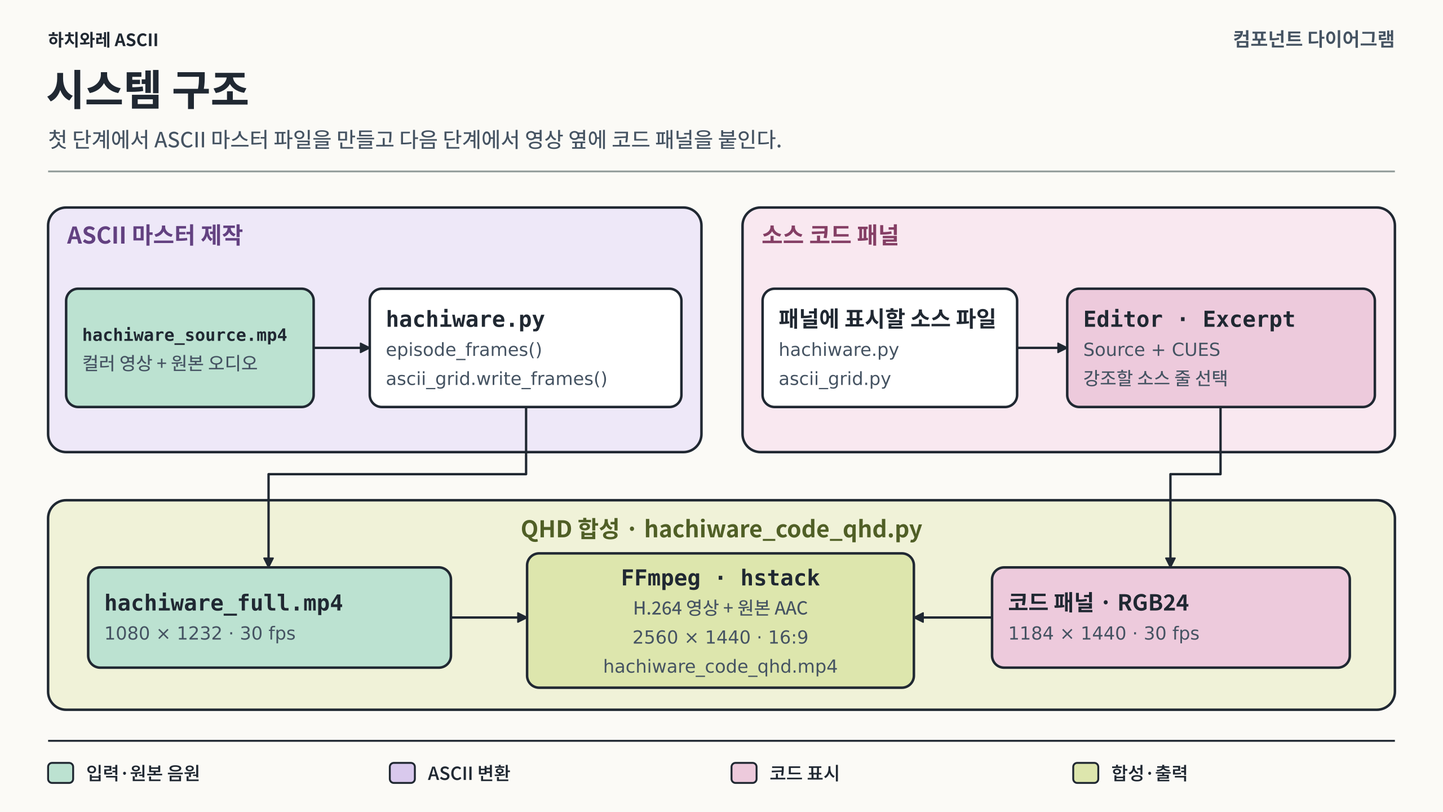
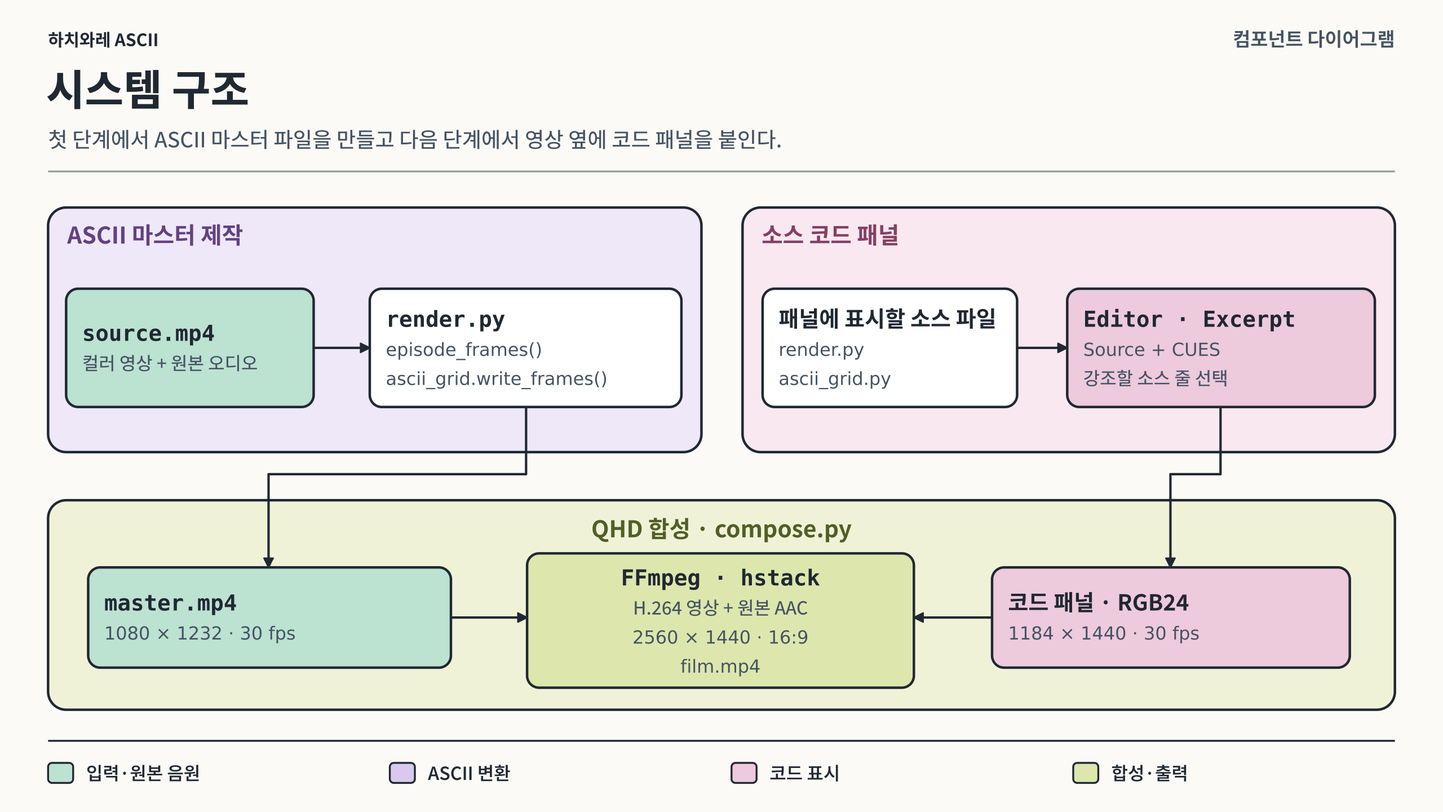
Use role-based filenames for rendering and composition

diff --git a/compose.py b/compose.py
@@ -1,9 +1,9 @@
 """하치와레 ASCII와 실제 소스를 함께 보여 주는 16:9 QHD 영상.
 
-    python hachiware_code_qhd.py
-    python hachiware_code_qhd.py hachiware_full.mp4 another_cut.mp4
+    python compose.py
+    python compose.py master.mp4 another_cut.mp4
 
-같은 폴더의 hachiware.py와 ascii_grid.py를 읽는다. NumPy, Pillow, FFmpeg가
+같은 폴더의 render.py와 ascii_grid.py를 읽는다. NumPy, Pillow, FFmpeg가
 필요하다. 기본 오디오는 입력 영상에 담긴 한국어판 노래와 대사, 효과음을 그대로 사용한다.
 별도의 녹음으로 교체하려면 --voice 녹음.wav 를 지정한다.
 """
@@ -47,7 +47,7 @@ KOREAN = ("NotoSansKR-VF.ttf", "NotoSansCJK-Regular.ttc", "malgun.ttf")
 class Cue:
     frame: int
     lines: tuple
-    file: str = "hachiware.py"
+    file: str = "render.py"
 
 
 def lines(first, last):
@@ -343,8 +343,8 @@ def render(movie, output, voice=None):
 
 if __name__ == "__main__":
     parser = argparse.ArgumentParser(description=__doc__)
-    parser.add_argument("movie", type=Path, nargs="?", default=HERE / "hachiware_full.mp4")
-    parser.add_argument("output", type=Path, nargs="?", default=HERE / "hachiware_code_qhd.mp4")
+    parser.add_argument("movie", type=Path, nargs="?", default=HERE / "master.mp4")
+    parser.add_argument("output", type=Path, nargs="?", default=HERE / "film.mp4")
     parser.add_argument("--voice", type=Path, help="직접 녹음한 해설 트랙")
     args = parser.parse_args()
     render(args.movie, args.output, args.voice)

diff --git a/render.py b/render.py
@@ -1,7 +1,7 @@
 """컬러 영상을 하치와레 스타일의 ASCII 애니메이션으로 변환한다.
 
-    python hachiware.py input.mp4 hachiware.mp4
-    python hachiware.py --episode-11 hachiware_source.mp4 hachiware_full.mp4
+    python render.py input.mp4 ascii.mp4
+    python render.py --episode-11 source.mp4 master.mp4
 """
 
 import argparse

diff --git a/docs/design.ko.md b/docs/design.ko.md
@@ -4,7 +4,7 @@
 
 ## 시스템 구조
 
-원본을 ASCII로 그리는 일과 화면에 코드를 붙이는 일은 따로 실행합니다. 두 프로그램을 잇는 파일은 `hachiware_full.mp4`입니다. 이 파일에 글자로 그린 영상과 원본 소리가 함께 들어 있어 코드 패널만 고칠 때는 QHD 합성부터 다시 실행하면 됩니다. 왼쪽 영상의 너비는 1376픽셀, 오른쪽 코드 패널은 1184픽셀입니다. [합성 코드](../hachiware_code_qhd.py#L284)
+원본을 ASCII로 그리는 일과 화면에 코드를 붙이는 일은 따로 실행합니다. 두 프로그램을 잇는 파일은 `master.mp4`입니다. 이 파일에 글자로 그린 영상과 원본 소리가 함께 들어 있어 코드 패널만 고칠 때는 QHD 합성부터 다시 실행하면 됩니다. 왼쪽 영상의 너비는 1376픽셀, 오른쪽 코드 패널은 1184픽셀입니다. [합성 코드](../compose.py#L284)
 
 [![원본과 두 소스 파일을 받아 QHD MP4를 만드는 구조](diagrams/ko/architecture.png)](diagrams/ko/architecture.png)
 
@@ -14,7 +14,7 @@
 
 ## 데이터 흐름도
 
-`letters()`는 셀마다 3 × 3개의 표본을 읽어 글자와 색을 고릅니다. 기본 격자는 135열 88행이고 글자 한 칸은 8 × 14픽셀입니다. 422번 프레임에는 두 인물이 함께 나옵니다. 이처럼 넓게 잡는 세 장면에서는 격자를 270열 176행으로 늘리고 글자 크기를 4 × 7픽셀로 줄입니다. `pixels()`는 글자 마스크에 셀 색을 곱해 RGB 프레임을 만듭니다. 소리는 이 계산을 거치지 않고 두 MP4에 차례로 복사됩니다. [글자 선택](../hachiware.py#L163) · [픽셀 합성](../ascii_grid.py#L37)
+`letters()`는 셀마다 3 × 3개의 표본을 읽어 글자와 색을 고릅니다. 기본 격자는 135열 88행이고 글자 한 칸은 8 × 14픽셀입니다. 422번 프레임에는 두 인물이 함께 나옵니다. 이처럼 넓게 잡는 세 장면에서는 격자를 270열 176행으로 늘리고 글자 크기를 4 × 7픽셀로 줄입니다. `pixels()`는 글자 마스크에 셀 색을 곱해 RGB 프레임을 만듭니다. 소리는 이 계산을 거치지 않고 두 MP4에 차례로 복사됩니다. [글자 선택](../render.py#L163) · [픽셀 합성](../ascii_grid.py#L37)
 
 [![영상과 코드, 원본 AAC가 최종 MP4에 담기는 경로](diagrams/ko/data-flow.png)](diagrams/ko/data-flow.png)
 
@@ -22,7 +22,7 @@
 
 ## 유스케이스 다이어그램
 
-제작자는 일반 영상을 무음 ASCII로 바꾸거나 `--episode-11`로 원본 소리가 담긴 11화 ASCII 영상을 만들 수 있습니다. QHD 합성은 이 11화 영상을 입력으로 받습니다. 기본 설정에서는 한국어판 노래와 대사가 그대로 나옵니다. 별도 녹음으로 바꾸려면 합성 명령에 `--voice 녹음.wav`를 붙입니다. [ASCII 변환 명령](../hachiware.py#L379) · [오디오 선택](../hachiware_code_qhd.py#L291)
+제작자는 일반 영상을 무음 ASCII로 바꾸거나 `--episode-11`로 원본 소리가 담긴 11화 ASCII 영상을 만들 수 있습니다. QHD 합성은 이 11화 영상을 입력으로 받습니다. 기본 설정에서는 한국어판 노래와 대사가 그대로 나옵니다. 별도 녹음으로 바꾸려면 합성 명령에 `--voice 녹음.wav`를 붙입니다. [ASCII 변환 명령](../render.py#L379) · [오디오 선택](../compose.py#L291)
 
 [![제작자와 FFmpeg가 참여하는 세 가지 작업](diagrams/ko/use-cases.png)](diagrams/ko/use-cases.png)
 
@@ -30,7 +30,7 @@
 
 ## 활동 다이어그램
 
-프레임 번호는 0부터 셉니다. `episode_frames()`는 0~89번에서 타이틀을 그리고 90~1801번에서는 본편의 15개 장면에 맞춰 구도를 잡습니다. 장면이 바뀔 때마다 이전 셀 값을 비워 앞 장면의 색이 따라오지 않게 합니다. 1700~1801번에서는 ‘끝’ 말풍선도 따로 그립니다. 1802번부터 마지막 2700번까지는 크레딧에 더 작은 글자를 써서 가는 한글 획을 살립니다. [장면별 구도](../hachiware.py#L240) · [프레임 분기](../hachiware.py#L352)
+프레임 번호는 0부터 셉니다. `episode_frames()`는 0~89번에서 타이틀을 그리고 90~1801번에서는 본편의 15개 장면에 맞춰 구도를 잡습니다. 장면이 바뀔 때마다 이전 셀 값을 비워 앞 장면의 색이 따라오지 않게 합니다. 1700~1801번에서는 ‘끝’ 말풍선도 따로 그립니다. 1802번부터 마지막 2700번까지는 크레딧에 더 작은 글자를 써서 가는 한글 획을 살립니다. [장면별 구도](../render.py#L240) · [프레임 분기](../render.py#L352)
 
 [![타이틀과 본편, 크레딧을 나누고 끝 말풍선을 더하는 조건](diagrams/ko/activity.png)](diagrams/ko/activity.png)
 
@@ -38,7 +38,7 @@
 
 ## 시퀀스 다이어그램
 
-렌더링을 시작할 때 `Source`는 두 파이썬 파일을 한 번씩 읽어 문법에 따라 색을 정합니다. 이후 `render()`가 프레임마다 `Editor.frame(n)`을 호출합니다. `Editor`는 구간이 바뀌면 `Excerpt`를 만들고 강조할 줄이나 스크롤 위치가 바뀌면 패널을 다시 그립니다. 같은 화면이 이어지는 동안에도 프레임마다 FFmpeg에 패널 데이터를 보냅니다. [소스 읽기](../hachiware_code_qhd.py#L108) · [패널 전송](../hachiware_code_qhd.py#L319)
+렌더링을 시작할 때 `Source`는 두 파이썬 파일을 한 번씩 읽어 문법에 따라 색을 정합니다. 이후 `render()`가 프레임마다 `Editor.frame(n)`을 호출합니다. `Editor`는 구간이 바뀌면 `Excerpt`를 만들고 강조할 줄이나 스크롤 위치가 바뀌면 패널을 다시 그립니다. 같은 화면이 이어지는 동안에도 프레임마다 FFmpeg에 패널 데이터를 보냅니다. [소스 읽기](../compose.py#L108) · [패널 전송](../compose.py#L319)
 
 [![한 프레임을 만드는 동안 render와 Editor, Excerpt, FFmpeg가 주고받는 호출](diagrams/ko/sequence.png)](diagrams/ko/sequence.png)
 
@@ -46,7 +46,7 @@
 
 ## 클래스 다이어그램
 
-`Cue`에는 구간의 시작 프레임, 파일명, 강조할 줄 번호가 들어 있습니다. `Source`는 파일의 원문과 문법 색상, 함수나 대입문이 차지하는 줄 범위를 보관합니다. `Excerpt`는 한 구간에 필요한 줄을 미리 그려 두고 스크롤할 때 그중 일부만 잘라 씁니다. `Editor`는 두 `Source`와 현재 `Excerpt`를 관리합니다. [Cue](../hachiware_code_qhd.py#L47) · [Source](../hachiware_code_qhd.py#L108) · [Excerpt](../hachiware_code_qhd.py#L160) · [Editor](../hachiware_code_qhd.py#L240)
+`Cue`에는 구간의 시작 프레임, 파일명, 강조할 줄 번호가 들어 있습니다. `Source`는 파일의 원문과 문법 색상, 함수나 대입문이 차지하는 줄 범위를 보관합니다. `Excerpt`는 한 구간에 필요한 줄을 미리 그려 두고 스크롤할 때 그중 일부만 잘라 씁니다. `Editor`는 두 `Source`와 현재 `Excerpt`를 관리합니다. [Cue](../compose.py#L47) · [Source](../compose.py#L108) · [Excerpt](../compose.py#L160) · [Editor](../compose.py#L240)
 
 [![코드 패널의 클래스 네 개와 각 클래스가 참조하는 객체](diagrams/ko/classes.png)](diagrams/ko/classes.png)
 
@@ -54,7 +54,7 @@
 
 ## 개체 관계도
 
-장면과 소스 줄의 연결 정보는 메모리에 둡니다. 파일명과 줄 번호로 소스 한 줄을 찾을 수 있습니다. 시작 프레임과 `Cue.lines` 안의 순번을 알면 그 구간에서 어떤 줄을 강조할지도 확인할 수 있습니다. 예를 들어 `Cue(849, (248,))`는 849번 프레임부터 `hachiware.py`의 248번째 줄을 보여 주라는 뜻입니다. 20개 구간에 담긴 줄 번호는 중복을 포함해 모두 71개입니다. [큐 목록](../hachiware_code_qhd.py#L59) · [박수 장면](../hachiware.py#L248)
+장면과 소스 줄의 연결 정보는 메모리에 둡니다. 파일명과 줄 번호로 소스 한 줄을 찾을 수 있습니다. 시작 프레임과 `Cue.lines` 안의 순번을 알면 그 구간에서 어떤 줄을 강조할지도 확인할 수 있습니다. 예를 들어 `Cue(849, (248,))`는 849번 프레임부터 `render.py`의 248번째 줄을 보여 주라는 뜻입니다. 20개 구간에 담긴 줄 번호는 중복을 포함해 모두 71개입니다. [큐 목록](../compose.py#L59) · [박수 장면](../render.py#L248)
 
 [![소스 파일, 소스 줄, 장면 큐, 강조할 줄 사이의 일대다 관계](diagrams/ko/data-model.png)](diagrams/ko/data-model.png)
 
@@ -62,7 +62,7 @@
 
 ## 상태 전이도
 
-강조 표시가 다음 줄로 옮겨가는 데는 최대 12프레임(0.4초)이 걸립니다. `Editor.frame()`은 줄의 순번과 그 줄에서 지난 프레임 수로 만든 키 `(step, min(12, elapsed))`를 직전 값과 비교합니다. 키가 같으면 그려 둔 패널을 다시 쓰고 다음 줄이나 새 구간으로 넘어가면 화면을 갱신합니다. [스크롤 계산](../hachiware_code_qhd.py#L200) · [패널 재사용](../hachiware_code_qhd.py#L263)
+강조 표시가 다음 줄로 옮겨가는 데는 최대 12프레임(0.4초)이 걸립니다. `Editor.frame()`은 줄의 순번과 그 줄에서 지난 프레임 수로 만든 키 `(step, min(12, elapsed))`를 직전 값과 비교합니다. 키가 같으면 그려 둔 패널을 다시 쓰고 다음 줄이나 새 구간으로 넘어가면 화면을 갱신합니다. [스크롤 계산](../compose.py#L200) · [패널 재사용](../compose.py#L263)
 
 [![코드 패널이 새 구간을 선택하고 스크롤한 뒤 멈추는 과정](diagrams/ko/state.png)](diagrams/ko/state.png)
 

diff --git a/docs/design.md b/docs/design.md
@@ -4,7 +4,7 @@
 
 ## System architecture
 
-The two programs exchange one file, `hachiware_full.mp4`. It holds the ASCII picture and original soundtrack, so an edit to the code panel only requires rerunning the QHD compositor. The picture takes up the left 1376 pixels and the code takes up the remaining 1184. [Compositor](../hachiware_code_qhd.py#L284)
+The two programs exchange one file, `master.mp4`. It holds the ASCII picture and original soundtrack, so an edit to the code panel only requires rerunning the QHD compositor. The picture takes up the left 1376 pixels and the code takes up the remaining 1184. [Compositor](../compose.py#L284)
 
 [![System architecture linking the episode, renderer and two Python source files to the QHD output](diagrams/en/architecture.png)](diagrams/en/architecture.png)
 
@@ -14,7 +14,7 @@ The rounded groups and dark outlines follow the Apogee architecture drawing. Min
 
 ## Data flow
 
-`letters()` samples a 3 × 3 block for each cell and chooses a glyph and color. The usual grid has 135 columns and 88 rows, with an 8 × 14 pixel tile for each glyph. Three wide shots, including the two-character shot at frame 422, use 270 columns and 176 rows with 4 × 7 tiles. `pixels()` multiplies the glyph mask by the cell color to produce RGB pixels. FFmpeg copies the audio track through both files. [Glyph selection](../hachiware.py#L163) · [Pixel composition](../ascii_grid.py#L37)
+`letters()` samples a 3 × 3 block for each cell and chooses a glyph and color. The usual grid has 135 columns and 88 rows, with an 8 × 14 pixel tile for each glyph. Three wide shots, including the two-character shot at frame 422, use 270 columns and 176 rows with 4 × 7 tiles. `pixels()` multiplies the glyph mask by the cell color to produce RGB pixels. FFmpeg copies the audio track through both files. [Glyph selection](../render.py#L163) · [Pixel composition](../ascii_grid.py#L37)
 
 [![Separate paths for video pixels, the code panel and original AAC packets](diagrams/en/data-flow.png)](diagrams/en/data-flow.png)
 
@@ -22,7 +22,7 @@ The rounded groups and dark outlines follow the Apogee architecture drawing. Min
 
 ## Use cases
 
-An operator can render a silent ASCII version of an arbitrary clip or use `--episode-11` to render the matching episode with its original audio. QHD composition takes the episode master as input. It uses the Korean song and dialogue by default. To supply a separate recording, pass `--voice recording.wav` to the compositor. [ASCII command](../hachiware.py#L379) · [Audio selection](../hachiware_code_qhd.py#L291)
+An operator can render a silent ASCII version of an arbitrary clip or use `--episode-11` to render the matching episode with its original audio. QHD composition takes the episode master as input. It uses the Korean song and dialogue by default. To supply a separate recording, pass `--voice recording.wav` to the compositor. [ASCII command](../render.py#L379) · [Audio selection](../compose.py#L291)
 
 [![Operator and FFmpeg as actors in the command-line renderer](diagrams/en/use-cases.png)](diagrams/en/use-cases.png)
 
@@ -30,7 +30,7 @@ An operator can render a silent ASCII version of an arbitrary clip or use `--epi
 
 ## Activity diagram
 
-`episode_frames()` draws the opening card for frames 0–89. Frames 90–1801 cover 15 performance shots. Each shot change resets the previous cell values so the old shot’s colors do not carry over. Frames 1700–1801 add a separate pass for the closing “끝” speech balloon. From frame 1802 through 2700, smaller glyphs preserve the fine Korean lettering on the credits. [Shot framing](../hachiware.py#L240) · [Frame dispatch](../hachiware.py#L352)
+`episode_frames()` draws the opening card for frames 0–89. Frames 90–1801 cover 15 performance shots. Each shot change resets the previous cell values so the old shot’s colors do not carry over. Frames 1700–1801 add a separate pass for the closing “끝” speech balloon. From frame 1802 through 2700, smaller glyphs preserve the fine Korean lettering on the credits. [Shot framing](../render.py#L240) · [Frame dispatch](../render.py#L352)
 
 [![Frame ranges for the opening, performance, closing balloon and credits](diagrams/en/activity.png)](diagrams/en/activity.png)
 
@@ -38,7 +38,7 @@ An operator can render a silent ASCII version of an arbitrary clip or use `--epi
 
 ## Sequence diagram
 
-At startup, `Source` reads each of the two Python files once and colors the tokens. Then `render()` calls `Editor.frame(n)` for each video frame. `Editor` builds an `Excerpt` when a new cue begins. A change of line or scroll position prompts a redraw. FFmpeg receives a panel for every frame, including the frames when the panel holds still. [Source parsing](../hachiware_code_qhd.py#L108) · [Per-frame output](../hachiware_code_qhd.py#L319)
+At startup, `Source` reads each of the two Python files once and colors the tokens. Then `render()` calls `Editor.frame(n)` for each video frame. `Editor` builds an `Excerpt` when a new cue begins. A change of line or scroll position prompts a redraw. FFmpeg receives a panel for every frame, including the frames when the panel holds still. [Source parsing](../compose.py#L108) · [Per-frame output](../compose.py#L319)
 
 [![Calls between render, Editor, Excerpt and FFmpeg on each video frame](diagrams/en/sequence.png)](diagrams/en/sequence.png)
 
@@ -46,7 +46,7 @@ At startup, `Source` reads each of the two Python files once and colors the toke
 
 ## Class diagram
 
-`Cue` records a start frame, a filename and the source lines to highlight. `Source` holds the file text, token styles and the line ranges of its functions and assignments. `Excerpt` draws a sheet of source lines once per cue, then crops it as the view scrolls. `Editor` owns two `Source` objects and the current `Excerpt`. [Cue](../hachiware_code_qhd.py#L47) · [Source](../hachiware_code_qhd.py#L108) · [Excerpt](../hachiware_code_qhd.py#L160) · [Editor](../hachiware_code_qhd.py#L240)
+`Cue` records a start frame, a filename and the source lines to highlight. `Source` holds the file text, token styles and the line ranges of its functions and assignments. `Excerpt` draws a sheet of source lines once per cue, then crops it as the view scrolls. `Editor` owns two `Source` objects and the current `Excerpt`. [Cue](../compose.py#L47) · [Source](../compose.py#L108) · [Excerpt](../compose.py#L160) · [Editor](../compose.py#L240)
 
 [![The four Python types used by the code panel and their references](diagrams/en/classes.png)](diagrams/en/classes.png)
 
@@ -54,7 +54,7 @@ At startup, `Source` reads each of the two Python files once and colors the toke
 
 ## Entity relationships
 
-The renderer keeps its cue data in memory. A filename and a line number identify one source line. A cue’s start frame and an index into `Cue.lines` identify one highlight within the cue. For example, `Cue(849, (248,))` brings up line 248 of `hachiware.py` when frame 849 starts. The 20 cues hold 71 line-number entries, counting repeats. [Cue sheet](../hachiware_code_qhd.py#L59) · [Clapping shot](../hachiware.py#L248)
+The renderer keeps its cue data in memory. A filename and a line number identify one source line. A cue’s start frame and an index into `Cue.lines` identify one highlight within the cue. For example, `Cue(849, (248,))` brings up line 248 of `render.py` when frame 849 starts. The 20 cues hold 71 line-number entries, counting repeats. [Cue sheet](../compose.py#L59) · [Clapping shot](../render.py#L248)
 
 [![Cardinalities among source files, source lines, scene cues and ordered highlight entries](diagrams/en/data-model.png)](diagrams/en/data-model.png)
 
@@ -62,7 +62,7 @@ The renderer keeps its cue data in memory. A filename and a line number identify
 
 ## State diagram
 
-The scroll to the next line takes at most 12 frames (0.4 seconds). `Editor.frame()` compares `(step, min(12, elapsed))` with the previous view key. An identical key reuses the panel. A new line or cue triggers a redraw. [Scroll interpolation](../hachiware_code_qhd.py#L200) · [Panel reuse](../hachiware_code_qhd.py#L263)
+The scroll to the next line takes at most 12 frames (0.4 seconds). `Editor.frame()` compares `(step, min(12, elapsed))` with the previous view key. An identical key reuses the panel. A new line or cue triggers a redraw. [Scroll interpolation](../compose.py#L200) · [Panel reuse](../compose.py#L263)
 
 [![Transitions between selecting a cue, scrolling to a line and holding the panel](diagrams/en/state.png)](diagrams/en/state.png)
 

diff --git a/README.ko.md b/README.ko.md
@@ -1,12 +1,12 @@
-# 하치와레의 혼잣말 · ASCII로 그린 QHD 영상
+# 하치와레의 혼잣말 · ASCII로 그린 영상
 
 [English](README.md) · [완성 영상 보기 · YouTube](https://youtu.be/brybTT7F2sg?si=imUgZBDhkl2_aS32) · [설계 다이어그램 8종](docs/design.ko.md)
 
-하치와레가 기타를 치는 모습을 왼쪽 화면에 색색의 ASCII 문자로 그렸습니다. 오른쪽에서는 장면에 맞춰 파이썬 코드가 한 줄씩 내려갑니다. 28.3초에는 박수 장면의 구도를 정한 `hachiware.py` 248번째 줄에서 스크롤이 잠시 멈춥니다. 노래와 대사는 한국어판 원본 그대로 들을 수 있습니다. [박수 장면의 코드](hachiware.py#L248)
+하치와레가 기타를 치는 모습을 왼쪽 화면에 색색의 ASCII 문자로 그렸습니다. 오른쪽에서는 장면에 맞춰 파이썬 코드가 한 줄씩 내려갑니다. 28.3초에 박수 장면이 나오면 스크롤이 잠시 멈춥니다. 이 장면의 구도는 `render.py` 248번째 줄에서 정합니다. 노래와 대사는 한국어판 원본 그대로 들을 수 있습니다. [박수 장면의 코드](render.py#L248)
 
 [![하치와레의 혼잣말 ASCII 영상 미리보기](https://i.ytimg.com/vi/brybTT7F2sg/maxresdefault.jpg)](https://youtu.be/brybTT7F2sg?si=imUgZBDhkl2_aS32)
 
-## QHD 영상 만들기
+## 영상 만들기
 
 파이썬과 `ffmpeg`, `ffprobe`가 필요합니다. FFmpeg는 `libx264`를 지원하는 빌드를 사용하세요. 코드 패널의 영문에는 DejaVu Sans Mono 또는 Consolas를, 한글에는 Noto Sans KR, Noto Sans CJK KR 또는 맑은 고딕을 씁니다. 아래 명령은 저장소 폴더에서 실행합니다.
 
@@ -18,32 +18,32 @@ python -m pip install -r requirements.txt
 
 Windows PowerShell에서는 `.\.venv\Scripts\Activate.ps1`로 가상 환경을 켭니다.
 
-한국어판 11화 「혼잣말」 원본을 `hachiware_source.mp4`라는 이름으로 준비하세요. 이 편집본을 30 fps로 읽으면 총 2,701프레임입니다. 첫 번째 명령은 원본 소리가 담긴 1080 × 1232 ASCII 영상을 만듭니다. 두 번째 명령은 그 옆에 코드를 붙여 2560 × 1440(16:9) MP4로 저장합니다.
+한국어판 11화 「혼잣말」 원본을 `source.mp4`라는 이름으로 준비하세요. 이 편집본을 30 fps로 읽으면 총 2,701프레임입니다. 첫 번째 명령은 원본 소리가 담긴 1080 × 1232 ASCII 영상을 만듭니다. 두 번째 명령은 그 옆에 코드를 붙여 2560 × 1440(16:9) MP4로 저장합니다.
 
 ~~~bash
-python hachiware.py --episode-11 hachiware_source.mp4 hachiware_full.mp4
-python hachiware_code_qhd.py hachiware_full.mp4 hachiware_code_qhd.mp4
+python render.py --episode-11 source.mp4 master.mp4
+python compose.py master.mp4 film.mp4
 ~~~
 
-이미 `hachiware_full.mp4`가 있으면 두 번째 명령부터 실행하세요. 같은 영상을 다시 만들 때는 새 출력 파일명을 지정하세요. 완성본은 30 fps로 약 90초 동안 재생됩니다. 두 단계 모두 원본 AAC를 재인코딩하지 않고 복사합니다.
+이미 `master.mp4`가 있으면 두 번째 명령부터 실행하세요. 같은 영상을 다시 만들 때는 새 출력 파일명을 지정하세요. 완성본은 30 fps로 약 90초 동안 재생됩니다. 두 단계 모두 원본 AAC를 재인코딩하지 않고 복사합니다.
 
 다른 영상으로 문자 표현을 시험해 볼 수도 있습니다. 다음 명령은 입력 영상에 맞춰 구도를 잡고 1080 × 1232 무음 ASCII 영상을 만듭니다.
 
 ~~~bash
-python hachiware.py input.mp4 ascii.mp4
+python render.py input.mp4 ascii.mp4
 ~~~
 
 ## 영상과 코드는 어떻게 맞출까?
 
-`CUES`에는 20개 구간의 시작 프레임과 그때 보여 줄 소스 줄 번호가 들어 있습니다. 처음 3초는 타이틀을 그리는 코드를 보여 줍니다. 기타 연주가 시작되는 90번 프레임부터는 털과 기타에 쓰는 색상표로 넘어갑니다. [장면별 코드 목록](hachiware_code_qhd.py#L59)
+`CUES`에는 20개 구간의 시작 프레임과 그때 보여 줄 소스 줄 번호가 들어 있습니다. 처음 3초는 타이틀을 그리는 코드를 보여 줍니다. 기타 연주가 시작되는 90번 프레임부터는 털과 기타에 쓰는 색상표로 넘어갑니다. [장면별 코드 목록](compose.py#L59)
 
 [![원본 영상과 파이썬 소스가 QHD 영상으로 합쳐지는 과정](docs/diagrams/ko/architecture.png)](docs/diagrams/ko/architecture.png)
 
 | 파일 | 하는 일 |
 | --- | --- |
-| [hachiware.py](hachiware.py) | 털, 머리, 기타의 색을 구분하고 장면마다 구도와 글자 밀도를 정합니다. |
+| [render.py](render.py) | 털, 머리, 기타의 색을 구분하고 장면마다 구도와 글자 밀도를 정합니다. |
 | [ascii_grid.py](ascii_grid.py) | 글자마다 밝기 마스크를 만들고 격자에 색을 입혀 영상으로 저장합니다. |
-| [hachiware_code_qhd.py](hachiware_code_qhd.py) | 실제 소스 줄을 읽어 오른쪽 패널에 표시하고 원본 오디오와 함께 QHD로 합성합니다. |
+| [compose.py](compose.py) | 실제 소스 줄을 읽어 오른쪽 패널에 표시하고 원본 오디오와 함께 QHD로 합성합니다. |
 
 장면이 바뀔 때 어떤 함수를 호출하는지, 같은 줄에서 스크롤이 왜 멈추는지는 설계 문서에서 그림과 코드로 확인할 수 있습니다. [한국어 설계 문서](docs/design.ko.md)
 

diff --git a/README.md b/README.md
@@ -2,11 +2,11 @@
 
 [한국어](README.ko.md) · [Watch the film on YouTube](https://youtu.be/brybTT7F2sg?si=imUgZBDhkl2_aS32) · [Engineering diagrams](docs/design.md)
 
-Hachiware plays the guitar on the left. The Python lines that draw each scene scroll on the right. At 28.3 seconds, when the clapping starts, the panel lands on line 248 of `hachiware.py`, where the shot’s framing is set. The film uses the original Korean soundtrack, including the song and dialogue. [Clapping shot in the source](hachiware.py#L248)
+Hachiware plays the guitar on the left. The Python lines that draw each scene scroll on the right. At 28.3 seconds the panel pauses for the clapping shot. Line 248 of `render.py` sets its framing. The film uses the original Korean soundtrack, including the song and dialogue. [Clapping shot in the source](render.py#L248)
 
 [![Video thumbnail for Hachiware sings in ASCII](https://i.ytimg.com/vi/brybTT7F2sg/maxresdefault.jpg)](https://youtu.be/brybTT7F2sg?si=imUgZBDhkl2_aS32)
 
-## Render the QHD film
+## Render the film
 
 Install Python, `ffmpeg` with `libx264`, and `ffprobe`. The code panel uses DejaVu Sans Mono or Consolas for Latin text, and Noto Sans KR, Noto Sans CJK KR or Malgun Gothic for Korean. From the repository directory, run
 
@@ -18,32 +18,32 @@ python -m pip install -r requirements.txt
 
 On Windows PowerShell, activate the environment with `.\.venv\Scripts\Activate.ps1`.
 
-Supply a local copy of the Korean episode 11 cut, “혼잣말”, as `hachiware_source.mp4`. Its timeline spans 2,701 frames at 30 fps. The first command draws a 1080 × 1232 ASCII master with source audio. The second adds the code panel and writes a 2560 × 1440 (16:9) H.264 MP4.
+Supply a local copy of the Korean episode 11 cut, “혼잣말”, as `source.mp4`. Its timeline spans 2,701 frames at 30 fps. The first command draws a 1080 × 1232 ASCII master with source audio. The second adds the code panel and writes a 2560 × 1440 (16:9) H.264 MP4.
 
 ~~~bash
-python hachiware.py --episode-11 hachiware_source.mp4 hachiware_full.mp4
-python hachiware_code_qhd.py hachiware_full.mp4 hachiware_code_qhd.mp4
+python render.py --episode-11 source.mp4 master.mp4
+python compose.py master.mp4 film.mp4
 ~~~
 
-If you already have `hachiware_full.mp4`, start with the second command. Choose a fresh output filename for each rerender. The finished cut runs for about 90 seconds at 30 fps. Both stages copy the original AAC audio without re-encoding it.
+If you already have `master.mp4`, start with the second command. Choose a fresh output filename for each rerender. The finished cut runs for about 90 seconds at 30 fps. Both stages copy the original AAC audio without re-encoding it.
 
 To try the ASCII renderer with another clip, use the command below. It frames the subject automatically and writes a silent 1080 × 1232 video.
 
 ~~~bash
-python hachiware.py input.mp4 ascii.mp4
+python render.py input.mp4 ascii.mp4
 ~~~
 
 ## How the code follows the picture
 
-`CUES` maps 20 points on the timeline to lines in the Python files. The opening three seconds show the code that draws the title card. At frame 90 the guitar performance starts, and the panel switches to the palette for the fur and guitar. [Cue sheet](hachiware_code_qhd.py#L59)
+`CUES` maps 20 points on the timeline to lines in the Python files. The opening three seconds show the code that draws the title card. At frame 90 the guitar performance starts, and the panel switches to the palette for the fur and guitar. [Cue sheet](compose.py#L59)
 
 [![System architecture showing how the episode and Python sources become one QHD film](docs/diagrams/en/architecture.png)](docs/diagrams/en/architecture.png)
 
 | File | Role |
 | --- | --- |
-| [hachiware.py](hachiware.py) | Classifies fur, hair and guitar colors. Sets the framing and character density for each shot. |
+| [render.py](render.py) | Classifies fur, hair and guitar colors. Sets the framing and character density for each shot. |
 | [ascii_grid.py](ascii_grid.py) | Builds a glyph mask for each character, colors the grid and writes the frames to video. |
-| [hachiware_code_qhd.py](hachiware_code_qhd.py) | Reads the actual source lines, draws the right-hand panel and combines it with the movie and audio. |
+| [compose.py](compose.py) | Reads the actual source lines, draws the right-hand panel and combines it with the movie and audio. |
 
 The design notes trace a frame through the renderer and explain when the panel scrolls or holds a line. [Eight engineering diagrams](docs/design.md)
 
